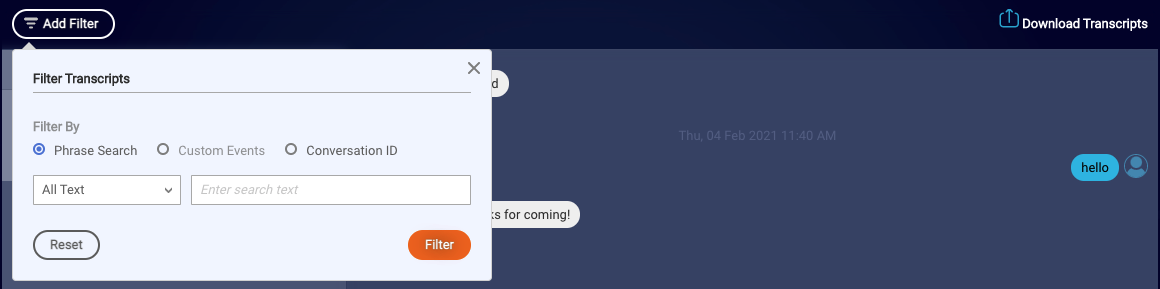
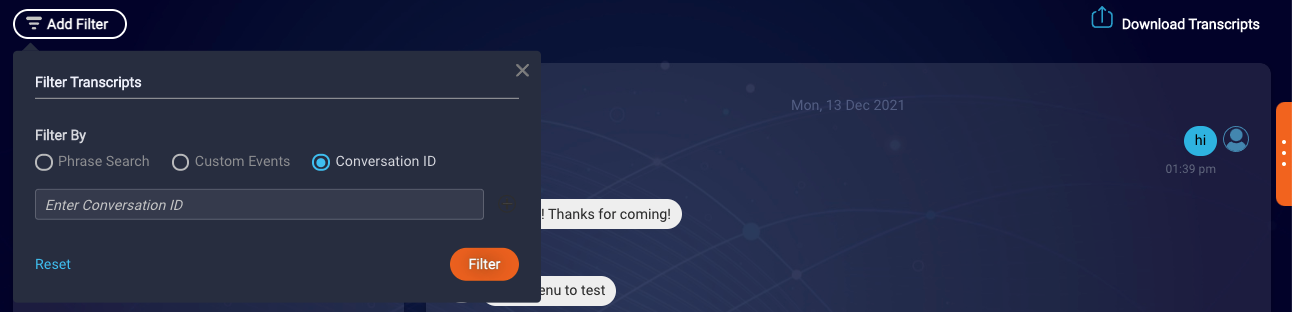
Add note about Phrase Search being disabled

diff --git a/pages/Documents/ConversationalAI/BotAnalytics/transcripts.md b/pages/Documents/ConversationalAI/BotAnalytics/transcripts.md
@@ -51,4 +51,7 @@ You can use the **Transcripts** view to access all the transcripts for a specifi
     <img style="width:800px" src="img/ConvoBuilder/ba_transcripts_filter.png">
 
     {: .important}
+    Currently, Phrase Search is disabled.
+
+    {: .important}
     When downloading transcripts, a maximum of 10,000 messages per download is allowed. For example, if you request the transcripts for February 15, 2021 through February 21, 2021, and the bot conversations for that period contain an average of 10 messages each, then the maximum number of bot conversations in the download would be approximately 1,000.
